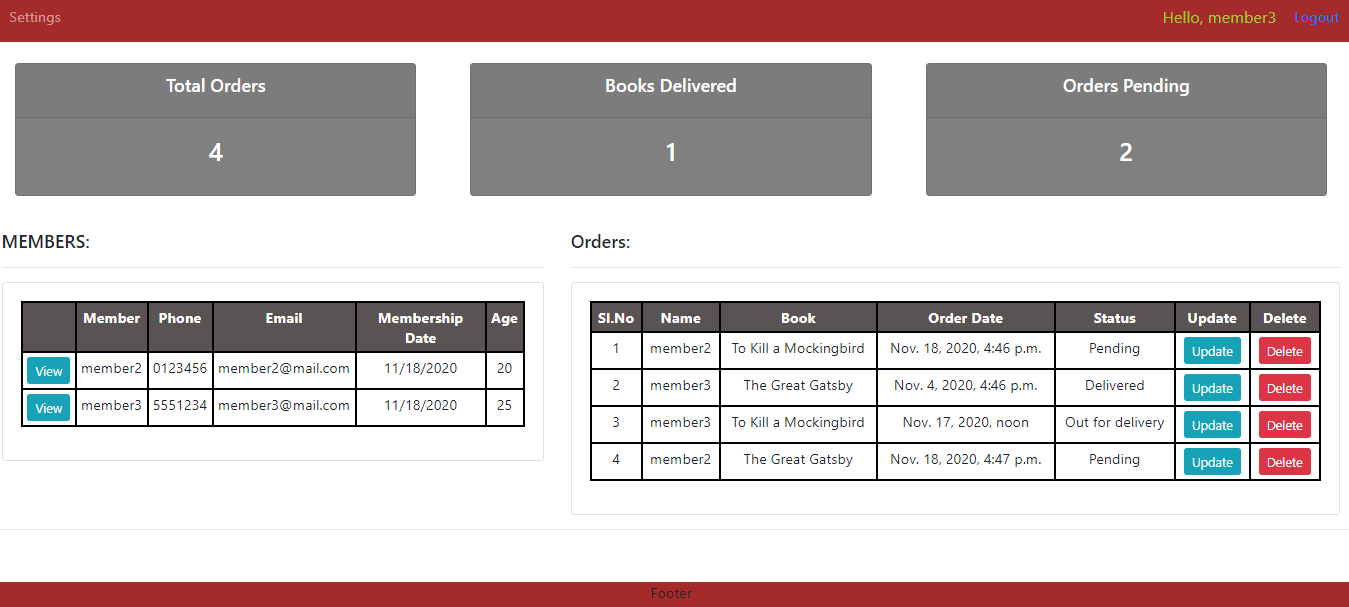
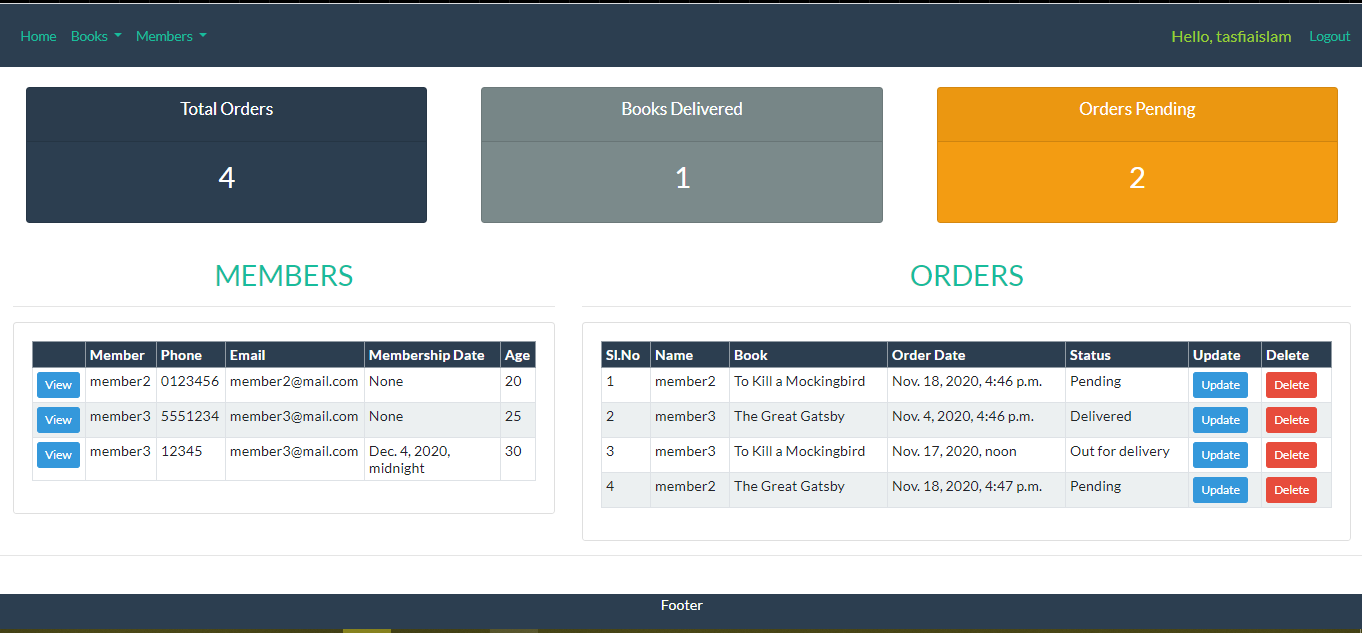
Modify Pdf Form, README

diff --git a/library_manager/library/templates/library/display_pdf.html b/library_manager/library/templates/library/display_pdf.html
@@ -2,25 +2,27 @@
 
 {% block content %}
 
-<div class="col-sm-7">
-    <h5>BOOKS:</h5>
+<div class="row row justify-content-center py-3">
+  <div class="col-sm-7">
+    <h2 class="text-center text-success py-3">Available Pdfs</h2>
     <hr>
-    <div class="card card-body" style="border: darkblue 1px solid; background-color:lightcoral;">
-        <table class="table table-sm">
-          <tr>
-            <th>Sl.No</th>
-            <th>Title</th>
-            <th>Download Pdf</th>
-          </tr>
-         {% for book in books %}
-         <tr>	
-             <td>{{book.id}}</td>	
-             <td>{{book.name}}</td>	
-             <td><a href="{{book.pdf.url}}" download>{{book.pdf}}</a></td>	
-         </tr>
-         {% endfor %}
-        </table>
+    <div class="card card-body">
+      <table class="table table-hover table-sm table-striped table-bordered">
+        <tr class="table-primary">
+          <th>Sl.No</th>
+          <th>Title</th>
+          <th>Download Pdf</th>
+        </tr>
+        {% for book in books %}
+        <tr>
+          <td>{{book.id}}</td>
+          <td>{{book.name}}</td>
+          <td><a href="{{book.pdf.url}}" download>{{book.pdf}}</a></td>
+        </tr>
+        {% endfor %}
+      </table>
     </div>
+  </div>
 </div>
 
 {% endblock %}

diff --git a/library_manager/library/templates/library/pdf_form.html b/library_manager/library/templates/library/pdf_form.html
@@ -3,12 +3,18 @@
 
 {% block content %}
 
-<form action="" method="POST" enctype="multipart/form-data">
-    {% csrf_token %}
-    {{form.label}}
-    {{form}}
-    <hr>
-    <input type="submit" name="submit">
-</form>
-
+<div class="row justify-content-center py-3">
+    <h2 class="text-success">Add PDF</h2>
+</div>
+<div class="row justify-content-center">
+    <div class="form-group col-md-6">
+        <form action="" method="POST" enctype="multipart/form-data">
+            {% csrf_token %}
+            {{form.label}}
+            {{form.as_p}}
+            <hr>
+            <input class="btn btn-success" type="submit" name="submit">
+        </form>
+    </div>
+</div>
 {% endblock %}

diff --git a/library_manager/library/templates/library/dashboard.html b/library_manager/library/templates/library/dashboard.html
@@ -6,7 +6,7 @@
 <br>
 <div class="row">
   <div class="col-md-5">
-    <h5>MEMBERS:</h5>
+    <h3 class="text-center text-success">MEMBERS</h3>
     <hr>
     <div class="card card-body">
       <table class="table table-sm table-hover table-striped table-bordered">
@@ -32,7 +32,7 @@
     </div>
   </div>
   <div class="col-md-7">
-    <h5>Orders:</h5>
+    <h3 class="text-center text-success">ORDERS</h3>
     <hr>
     <div class="card card-body">
       <table class="table table-sm table-hover table-striped table-bordered">

diff --git a/library_manager/library/forms.py b/library_manager/library/forms.py
@@ -31,12 +31,20 @@ class BookPdfForm(ModelForm):
     class Meta:
         model = BookPDF
         fields = '__all__'
+        widgets = {
+            'name': forms.TextInput(attrs={'class': 'form-control', 'placeholder': 'Enter Book Name'}),
+            'pdf': forms.FileInput(),
+        }
 
 
 class OrderForm(ModelForm):
     class Meta:
         model = BookOrder
         fields = '__all__'
+        # widgets = {
+        #     'name': forms.TextInput(attrs={'class': 'form-control', 'placeholder': 'Enter Book Name'}),
+        #     'pdf': forms.FileInput(),
+        # }
 
 
 class RentForm(ModelForm):

diff --git a/README.md b/README.md
@@ -4,7 +4,6 @@ A functional library manager implemented with Django `3.0.0`
 
 ## Getting Started
 
-
 ```bash
 # You may want to change the name `projectname`.
 $ git clone https://github.com/TasfiaIslam/library-management.git
@@ -15,15 +14,30 @@ $ python manage.py runserver
 
 ## Features
 
-* User login,logout, registration
-* Role based authorization
-* Login authentication 
-* CRUD Books, Memebers, Orders, Rents
-* Upload, Download Pdfs
-* Sorting of Orders
+- User login,logout, registration
+- Role based authorization
+- Login authentication
+- CRUD Books, Memebers, Orders, Rents
+- Upload, Download Pdfs
+- Sorting of Orders
 
 ## Quick Glance
+
+### Dashboard
+
 ![dashboard](screenshots/dashboard.png)
+
+### Add Member
+
+![Form](screenshots/add_member.png)
+
+### Upload Pdf
+
+![Form](screenshots/upload_pdf.png)
+
+### Display and Download Pdf
+
+![Form](screenshots/display_pdf.png)
 
 ## Contributing
 
